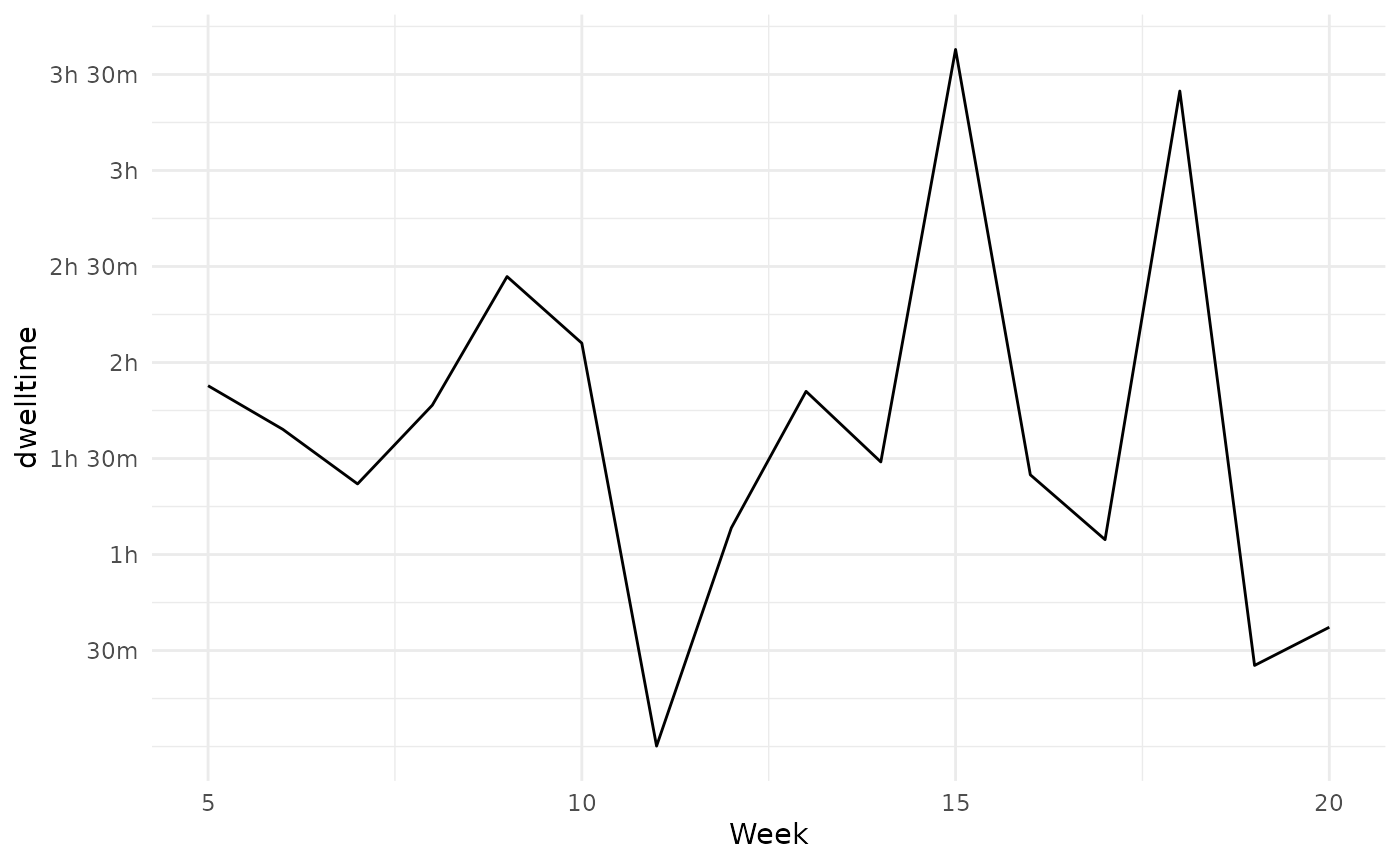
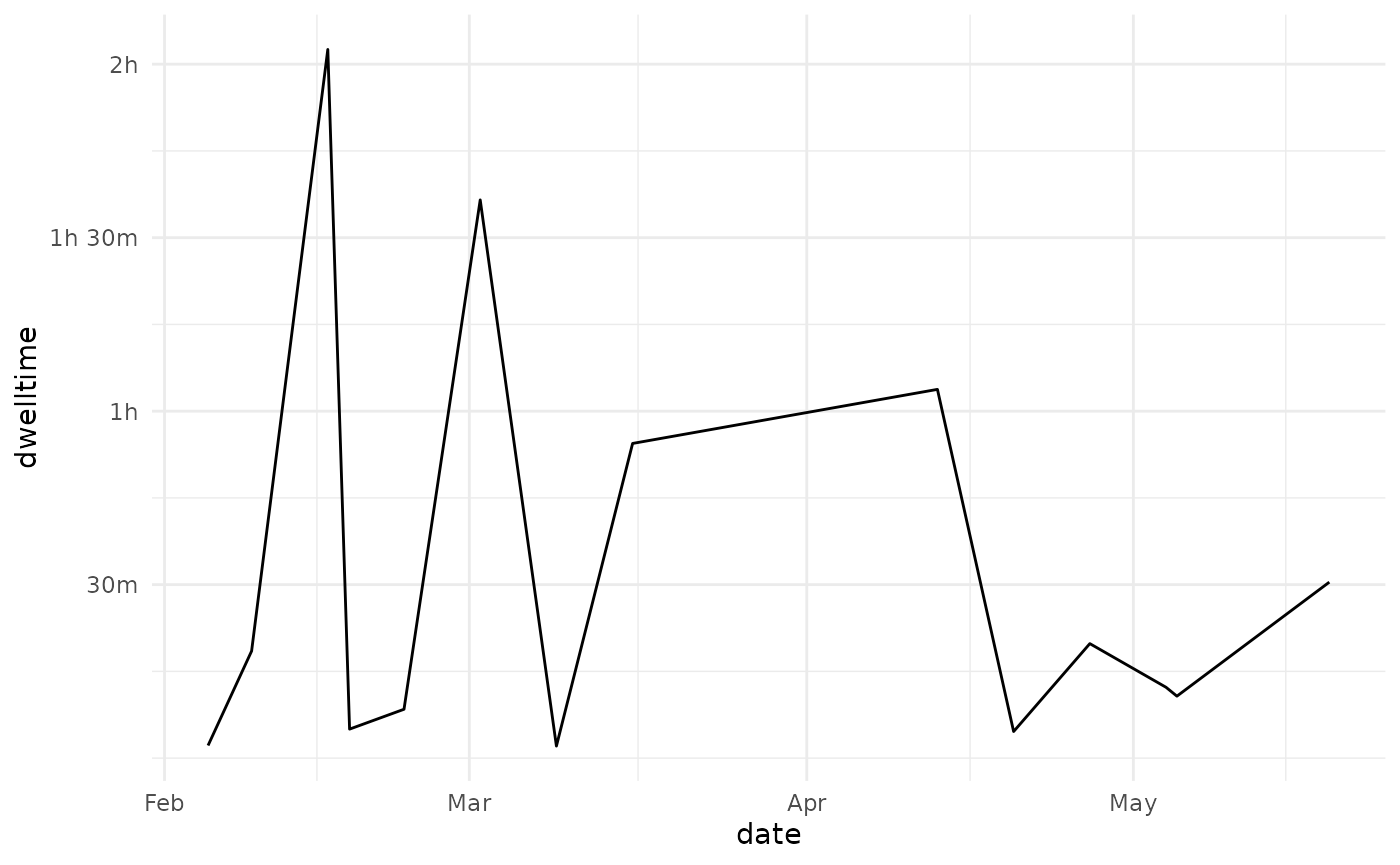
Spelling. Also forced user_id since set.seed didn't really work out.

diff --git a/docs/articles/calculating-time-on-task.html b/docs/articles/calculating-time-on-task.html
@@ -171,7 +171,7 @@
 <p>First let’s get a random user:</p>
 <div class="sourceCode" id="cb4"><pre class="downlit sourceCode r">
 <code class="sourceCode R"><span class="va">my_user_id</span> <span class="op">&lt;-</span> <span class="fu"><a href="../reference/mdl_log.html">mdl_log</a></span><span class="op">(</span><span class="op">)</span> <span class="op">%&gt;%</span> 
-  <span class="fu"><a href="https://rdrr.io/r/utils/head.html">head</a></span><span class="op">(</span><span class="fl">100000</span><span class="op">)</span> <span class="op">%&gt;%</span> 
+  <span class="fu"><a href="https://rdrr.io/r/utils/head.html">head</a></span><span class="op">(</span><span class="fl">1000L</span><span class="op">)</span> <span class="op">%&gt;%</span> 
   <span class="fu"><a href="https://dplyr.tidyverse.org/reference/slice.html">slice_sample</a></span><span class="op">(</span>n <span class="op">=</span> <span class="fl">1</span><span class="op">)</span> <span class="op">%&gt;%</span> 
   <span class="fu"><a href="https://dplyr.tidyverse.org/reference/pull.html">pull</a></span><span class="op">(</span><span class="va">userid</span><span class="op">)</span></code></pre></div>
 <p>And implement with dplyr verbs:</p>
@@ -181,12 +181,12 @@
   <span class="fu"><a href="https://dplyr.tidyverse.org/reference/mutate.html">mutate</a></span><span class="op">(</span>dwelltime <span class="op">=</span>  <span class="va">timecreated</span> <span class="op">-</span> <span class="fu"><a href="https://dplyr.tidyverse.org/reference/lead-lag.html">lag</a></span><span class="op">(</span><span class="va">timecreated</span><span class="op">)</span><span class="op">)</span>
 
 <span class="fu"><a href="https://rdrr.io/r/base/mean.html">mean</a></span><span class="op">(</span><span class="va">dwelltime_estimate</span> <span class="op">%&gt;%</span> <span class="fu"><a href="https://dplyr.tidyverse.org/reference/pull.html">pull</a></span><span class="op">(</span><span class="st">"dwelltime"</span><span class="op">)</span>, na.rm <span class="op">=</span> <span class="cn">TRUE</span><span class="op">)</span> 
-<span class="co">#&gt; [1] 26.98805</span></code></pre></div>
+<span class="co">#&gt; [1] 9164.337</span></code></pre></div>
 </div>
 <div id="estimating-timeout-visually" class="section level3">
 <h3 class="hasAnchor">
 <a href="#estimating-timeout-visually" class="anchor"></a>Estimating timeout visually</h3>
-<p>Thus far we have implemented the algorithm without a <span class="math inline">\(\theta\)</span>. This will very likely yield distorded values because it includes differences that span several sessions and time intervals which can be years. Let’s take a look at the distribution to ascertain a reasonable value for our <span class="math inline">\(theta\)</span>. For this we will use the ggplot2 package.</p>
+<p>Thus far we have implemented the algorithm without a <span class="math inline">\(\theta\)</span>. This will very likely yield distorted values because it includes differences that span several sessions and time intervals which can be years. Let’s take a look at the distribution to ascertain a reasonable value for our <span class="math inline">\(theta\)</span>. For this we will use the ggplot2 package.</p>
 <div class="sourceCode" id="cb6"><pre class="downlit sourceCode r">
 <code class="sourceCode R"><span class="kw"><a href="https://rdrr.io/r/base/library.html">library</a></span><span class="op">(</span><span class="va"><a href="http://ggplot2.tidyverse.org">ggplot2</a></span><span class="op">)</span>
 <span class="va">density_plot</span> <span class="op">&lt;-</span>
@@ -195,7 +195,7 @@
   <span class="fu"><a href="https://ggplot2.tidyverse.org/reference/geom_density.html">geom_density</a></span><span class="op">(</span><span class="op">)</span><span class="op">+</span>
   <span class="fu"><a href="https://ggplot2.tidyverse.org/reference/scale_continuous.html">scale_x_log10</a></span><span class="op">(</span>labels <span class="op">=</span> <span class="fu">scales</span><span class="fu">::</span><span class="fu"><a href="https://scales.r-lib.org/reference/label_number_si.html">label_number_si</a></span><span class="op">(</span><span class="op">)</span><span class="op">)</span>
 <span class="va">density_plot</span></code></pre></div>
-<p><img src="calculating-time-on-task_files/figure-html/unnamed-chunk-8-1.png" width="700"></p>
+<p><img src="calculating-time-on-task_files/figure-html/unnamed-chunk-9-1.png" width="700"></p>
 <p>We see a flattening occurring around 1000. Perhaps we can round this to 1200 (which corresponds to 20 minutes) for good measure:</p>
 <div class="sourceCode" id="cb7"><pre class="downlit sourceCode r">
 <code class="sourceCode R"><span class="va">density_plot</span> <span class="op">+</span> 
@@ -203,7 +203,7 @@
       <span class="fu"><a href="https://ggplot2.tidyverse.org/reference/annotate.html">annotate</a></span><span class="op">(</span>geom <span class="op">=</span> <span class="st">'text'</span>, x <span class="op">=</span> <span class="fl">300</span>, y <span class="op">=</span> <span class="fl">.4</span>, 
              label <span class="op">=</span> <span class="st">"theta == 1200"</span>, 
              parse <span class="op">=</span> <span class="cn">TRUE</span>, color <span class="op">=</span> <span class="st">'blue'</span>,cex<span class="op">=</span><span class="fl">5</span><span class="op">)</span></code></pre></div>
-<p><img src="calculating-time-on-task_files/figure-html/unnamed-chunk-9-1.png" width="700"></p>
+<p><img src="calculating-time-on-task_files/figure-html/unnamed-chunk-10-1.png" width="700"></p>
 <p>So,</p>
 <div class="sourceCode" id="cb8"><pre class="downlit sourceCode r">
 <code class="sourceCode R"><span class="va">my_theta</span> <span class="op">&lt;-</span> <span class="fl">1200</span></code></pre></div>
@@ -215,7 +215,7 @@
 <span class="co">#&gt; # Database: sqlite 3.33.0 [/home/sasha/chi2/moodleR/mdl_cache/mdl_cache.sqlite]</span>
 <span class="co">#&gt;   total_dwelltime</span>
 <span class="co">#&gt;             &lt;int&gt;</span>
-<span class="co">#&gt; 1          110666</span></code></pre></div>
+<span class="co">#&gt; 1           27079</span></code></pre></div>
 <p>And human readable:</p>
 <div class="sourceCode" id="cb10"><pre class="downlit sourceCode r">
 <code class="sourceCode R"><span class="va">dwelltime_estimate</span> <span class="op">%&gt;%</span> 
@@ -223,7 +223,7 @@
   <span class="fu"><a href="https://dplyr.tidyverse.org/reference/summarise.html">summarize</a></span><span class="op">(</span>total_dwelltime <span class="op">=</span> <span class="fu"><a href="https://rdrr.io/r/base/sum.html">sum</a></span><span class="op">(</span><span class="va">dwelltime</span>, na.rm <span class="op">=</span> <span class="cn">TRUE</span><span class="op">)</span><span class="op">)</span> <span class="op">%&gt;%</span> 
   <span class="fu"><a href="https://dplyr.tidyverse.org/reference/pull.html">pull</a></span><span class="op">(</span><span class="va">total_dwelltime</span><span class="op">)</span> <span class="op">%&gt;%</span> 
   <span class="fu">prettyunits</span><span class="fu">::</span><span class="fu"><a href="https://rdrr.io/pkg/prettyunits/man/pretty_sec.html">pretty_sec</a></span><span class="op">(</span>compact <span class="op">=</span> <span class="cn">TRUE</span><span class="op">)</span>
-<span class="co">#&gt; [1] "~1d"</span></code></pre></div>
+<span class="co">#&gt; [1] "~7h"</span></code></pre></div>
 </div>
 </div>
 <div id="creating-a-timeline" class="section level2">
@@ -245,7 +245,7 @@
   <span class="fu"><a href="https://ggplot2.tidyverse.org/reference/ggplot.html">ggplot</a></span><span class="op">(</span><span class="fu"><a href="https://ggplot2.tidyverse.org/reference/aes.html">aes</a></span><span class="op">(</span>x <span class="op">=</span> <span class="va">date</span>, y <span class="op">=</span> <span class="va">dwelltime</span><span class="op">)</span><span class="op">)</span> <span class="op">+</span>
   <span class="fu"><a href="https://ggplot2.tidyverse.org/reference/geom_path.html">geom_line</a></span><span class="op">(</span><span class="op">)</span><span class="op">+</span>
   <span class="fu"><a href="https://ggplot2.tidyverse.org/reference/scale_continuous.html">scale_y_continuous</a></span><span class="op">(</span>labels <span class="op">=</span> <span class="fu">prettyunits</span><span class="fu">::</span><span class="va"><a href="https://rdrr.io/pkg/prettyunits/man/pretty_sec.html">pretty_sec</a></span>, breaks <span class="op">=</span> <span class="fl">1800</span><span class="op">*</span><span class="fl">1</span><span class="op">:</span><span class="fl">10</span><span class="op">)</span></code></pre></div>
-<p><img src="calculating-time-on-task_files/figure-html/unnamed-chunk-13-1.png" width="700"></p>
+<p><img src="calculating-time-on-task_files/figure-html/unnamed-chunk-14-1.png" width="700"></p>
 <p>Alternatively we can summarize by week using e.g. <a href="https://lubridate.tidyverse.org/">lubridate</a>:</p>
 <div class="sourceCode" id="cb12"><pre class="downlit sourceCode r">
 <code class="sourceCode R"><span class="va">dwelltime_estimate</span> <span class="op">%&gt;%</span> 
@@ -258,7 +258,7 @@
   <span class="fu"><a href="https://ggplot2.tidyverse.org/reference/geom_path.html">geom_line</a></span><span class="op">(</span><span class="op">)</span> <span class="op">+</span>
   <span class="fu"><a href="https://ggplot2.tidyverse.org/reference/scale_continuous.html">scale_y_continuous</a></span><span class="op">(</span>labels <span class="op">=</span> <span class="fu">prettyunits</span><span class="fu">::</span><span class="va"><a href="https://rdrr.io/pkg/prettyunits/man/pretty_sec.html">pretty_sec</a></span>, breaks <span class="op">=</span> <span class="fu"><a href="https://rdrr.io/r/base/c.html">c</a></span><span class="op">(</span><span class="fl">1800</span><span class="op">*</span><span class="fl">1</span><span class="op">:</span><span class="fl">15</span><span class="op">)</span><span class="op">)</span><span class="op">+</span>
   <span class="fu"><a href="https://ggplot2.tidyverse.org/reference/scale_continuous.html">scale_x_continuous</a></span><span class="op">(</span> breaks <span class="op">=</span> <span class="fu"><a href="https://rdrr.io/r/base/seq.html">seq</a></span><span class="op">(</span><span class="fl">0</span>,<span class="fl">53</span>, by<span class="op">=</span><span class="fl">5</span><span class="op">)</span> <span class="op">)</span></code></pre></div>
-<p><img src="calculating-time-on-task_files/figure-html/unnamed-chunk-14-1.png" width="700"></p>
+<p><img src="calculating-time-on-task_files/figure-html/unnamed-chunk-15-1.png" width="700"></p>
 </div>
   </div>
 

diff --git a/docs/articles/analysis-of-grades.html b/docs/articles/analysis-of-grades.html
@@ -168,7 +168,7 @@
     <span class="va">normalized_grade</span> <span class="op">&gt;=</span><span class="fl">0</span>,
     <span class="va">normalized_grade</span> <span class="op">&lt;=</span><span class="fl">1</span>
          <span class="op">)</span></code></pre></div>
-<p>Now we can create a dentity plot.</p>
+<p>Now we can create a density plot.</p>
 <div class="sourceCode" id="cb6"><pre class="downlit sourceCode r">
 <code class="sourceCode R"><span class="va">my_grades</span> <span class="op">%&gt;%</span> 
   <span class="fu"><a href="https://ggplot2.tidyverse.org/reference/ggplot.html">ggplot</a></span><span class="op">(</span><span class="fu"><a href="https://ggplot2.tidyverse.org/reference/aes.html">aes</a></span><span class="op">(</span><span class="va">normalized_grade</span><span class="op">)</span><span class="op">)</span> <span class="op">+</span>
@@ -189,7 +189,7 @@
 <span class="co">#&gt;  Shapiro-Wilk normality test</span>
 <span class="co">#&gt; </span>
 <span class="co">#&gt; data:  .</span>
-<span class="co">#&gt; W = 0.6085, p-value &lt; 2.2e-16</span></code></pre></div>
+<span class="co">#&gt; W = 0.6076, p-value &lt; 2.2e-16</span></code></pre></div>
 <p>The <em>Shapiro-Wilk</em> tests the null-hypothesis of a sample from a normal distribution. As we can easily see this hypothesis is rejected.</p>
 </div>
 </div>
